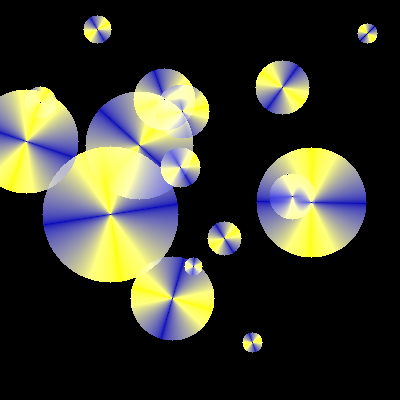
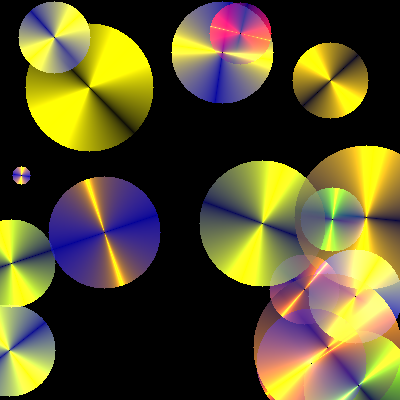
more cute circular experiments

diff --git a/src/cgg/a01/Main.java b/src/cgg/a01/Main.java
@@ -14,7 +14,7 @@ public class Main {
 		int height = 400;
 		Color background = new Color(.0f,.0f,.0f);
 
-		// setup multicircles
+		// generate multicircles
 		Random rand = new Random();
 		ArrayList<Circle> circles = new ArrayList<Circle>();
 		for (int i=0;i<17;i++) {
@@ -26,18 +26,30 @@ public class Main {
 			// FIXME: colour generation mad ugly
 		}
 
-		// generate multicircles
+		// draw multicircles
+		Vec2 center = new Vec2(width/2,height/2);
 		Image image_multi = new Image(width,height);
 		Image image_disc = new Image(width,height);
+		Image image_orbz = new Image(width,height);
+		Image image_halo = new Image(width,height);
+		Image image_waves = new Image(width,height);
 		for (int x=0;x<width;x++) {
 			for (int y=0;y<height;y++) {
 
 				// clear
 				image_multi.setPixel(x,y,background);
 				image_disc.setPixel(x,y,background);
+				image_orbz.setPixel(x,y,background);
+				image_halo.setPixel(x,y,background);
+				image_waves.setPixel(x,y,background);
 
 				// iterate entities
 				for (Circle circle : circles) {
+
+					// wave collision
+					image_waves.mixPixel(x,y,circle.waveEmission(new Vec2(x,y)));
+
+					// ee for all processing with distance lifetime
 					if (!circle.coversPoint(new Vec2(x,y))) continue;
 
 					// multicircles
@@ -45,24 +57,26 @@ public class Main {
 					image_multi.mixPixel(x,y,circle.colour());
 
 					// colourdiscs
-					double rot = circle.orientation(new Vec2(width/2,height/2),new Vec2(x,y));
-					image_disc.mixPixel(x,y,new Color(
-							Math.abs(Math.tan(rot)),Math.abs(Math.tan(rot)),Math.abs(Math.cos(rot)))
+					double rot = circle.orientation(center,new Vec2(x,y));
+					image_disc.mixPixel(x,y,
+							new Color(Math.abs(Math.tan(rot)),Math.abs(Math.tan(rot)),Math.abs(Math.cos(rot)))
+							.mul(circle.colour())
 						);
 					// FIXME: prettify colour spectrum
+
+					// fading orbzz
+					image_orbz.addPixelColour(x,y,circle.colour().mul(circle.fadingInfluence(new Vec2(x,y))));
+
+					// halos TODO protodistance + colour addition doesnt work for some reason
+					double influence = Math.max(Math.cos(rot),.0);
+					image_halo.addPixelColour(x,y,circle.colour().mul(Math.cos(rot)));
 				}
 			}
 		}
 		image_multi.writePng("a01-constant");
 		image_disc.writePng("a01-colourdisc");
-
-		// generate suncircle
-		Image image_radiation = new Image(width,height);
-		for (int x=0;x<width;x++) {
-			for (int y=0;y!=height;y++) {
-				image_radiation.setPixel(x,y,background);
-			}
-		}
-		image_radiation.writePng("a01-suncircle");
+		image_orbz.writePng("a01-discs");
+		image_halo.writePng("a01-halo");
+		image_waves.writePng("a01-waves");
 	}
 }

diff --git a/src/cgg/a01/Circle.java b/src/cgg/a01/Circle.java
@@ -21,15 +21,23 @@ public class Circle {
 		return sqCenterDistance(coordinate)<=sq_radius;
 	}
 
+	public double fadingInfluence(Vec2 coordinate) {
+		return Math.max((coordinate.sub(position).sqDistance()-sq_radius)*-1,.0)/sq_radius;
+	}
+
 	public double orientation(Vec2 target,Vec2 coordinate) {
 		Vec2 ori = target.sub(position);
 		Vec2 dir = coordinate.sub(position);
 		return Math.acos(ori.dot(dir)/(ori.distance()*dir.distance()));
 	}
 
-	public Color suncircleEmission(Vec2 coordinate) {
-		// TODO
-		return new Color(0,0,0);
+	public Color waveEmission(Vec2 coordinate) {
+		double range = Math.max(Math.sin(coordinate.sub(position).sqDistance()/sq_radius),.0);
+		return new Color(
+				range/.3,
+				Math.max(range-.3,.0)/.3,
+				Math.max(range-.6,.0)/.3
+			);
 	}
 
 	public Color colour() {

diff --git a/src/cgg/Image.java b/src/cgg/Image.java
@@ -28,6 +28,13 @@ public class Image implements tools.Image {
 		data[__PixelIndex+2] = (data[__PixelIndex+2]+colour.b())/2;
 	}
 
+	public void addPixelColour(int x,int y,Color colour) {
+		int __PixelIndex = calculatePixelIndex(x,y);
+		data[__PixelIndex] = (data[__PixelIndex]+colour.r());
+		data[__PixelIndex+1] = (data[__PixelIndex+1]+colour.g());
+		data[__PixelIndex+2] = (data[__PixelIndex+2]+colour.b());
+	}
+
     public Color getPixel(int x, int y) {
 		int __PixelIndex = calculatePixelIndex(x,y);
 		return new Color(data[__PixelIndex],data[__PixelIndex+1],data[__PixelIndex+2]);

diff --git a/src/tools/Color.java b/src/tools/Color.java
@@ -27,6 +27,9 @@ public record Color(double r, double g, double b) {
     /** Yellow color (1, 1, 0). */
     public static final Color yellow = color(1, 1, 0);
 
+	public Color mul(double val) { return new Color(r*val,g*val,b*val); }
+	public Color mul(Color col) { return new Color(r*col.r(),g*col.g(),b*col.b()); }
+
     /**
      * Returns a string representation of the color.
      *
